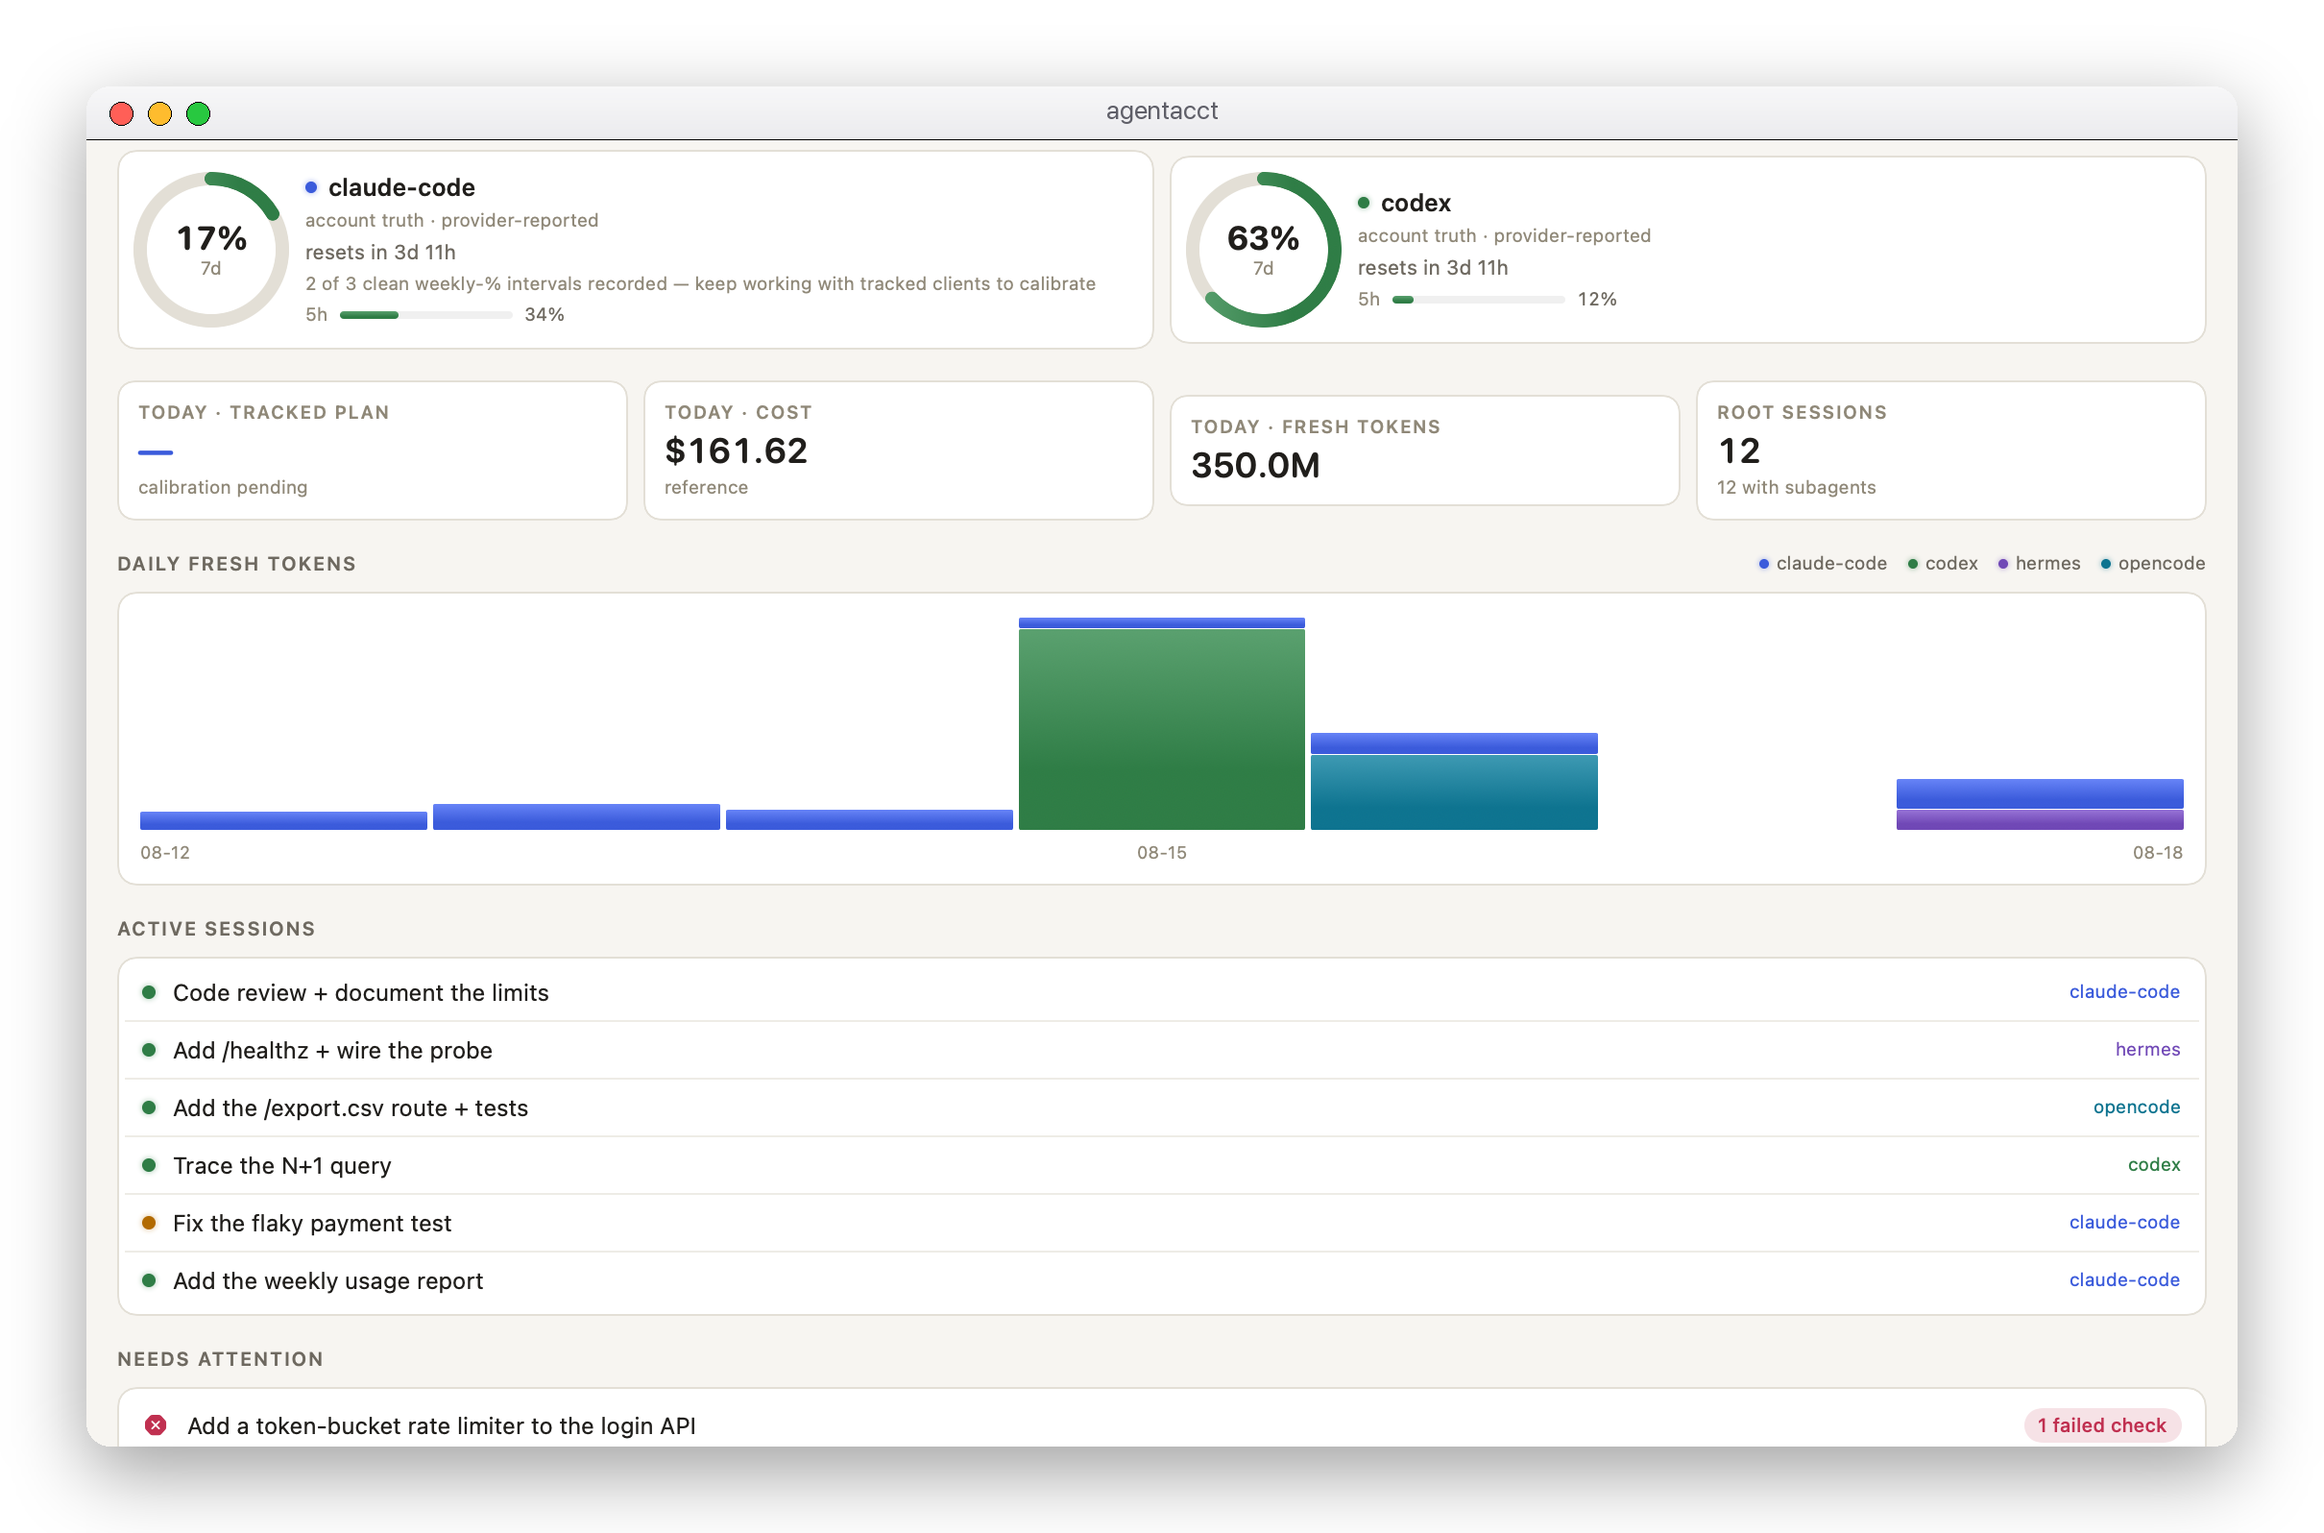
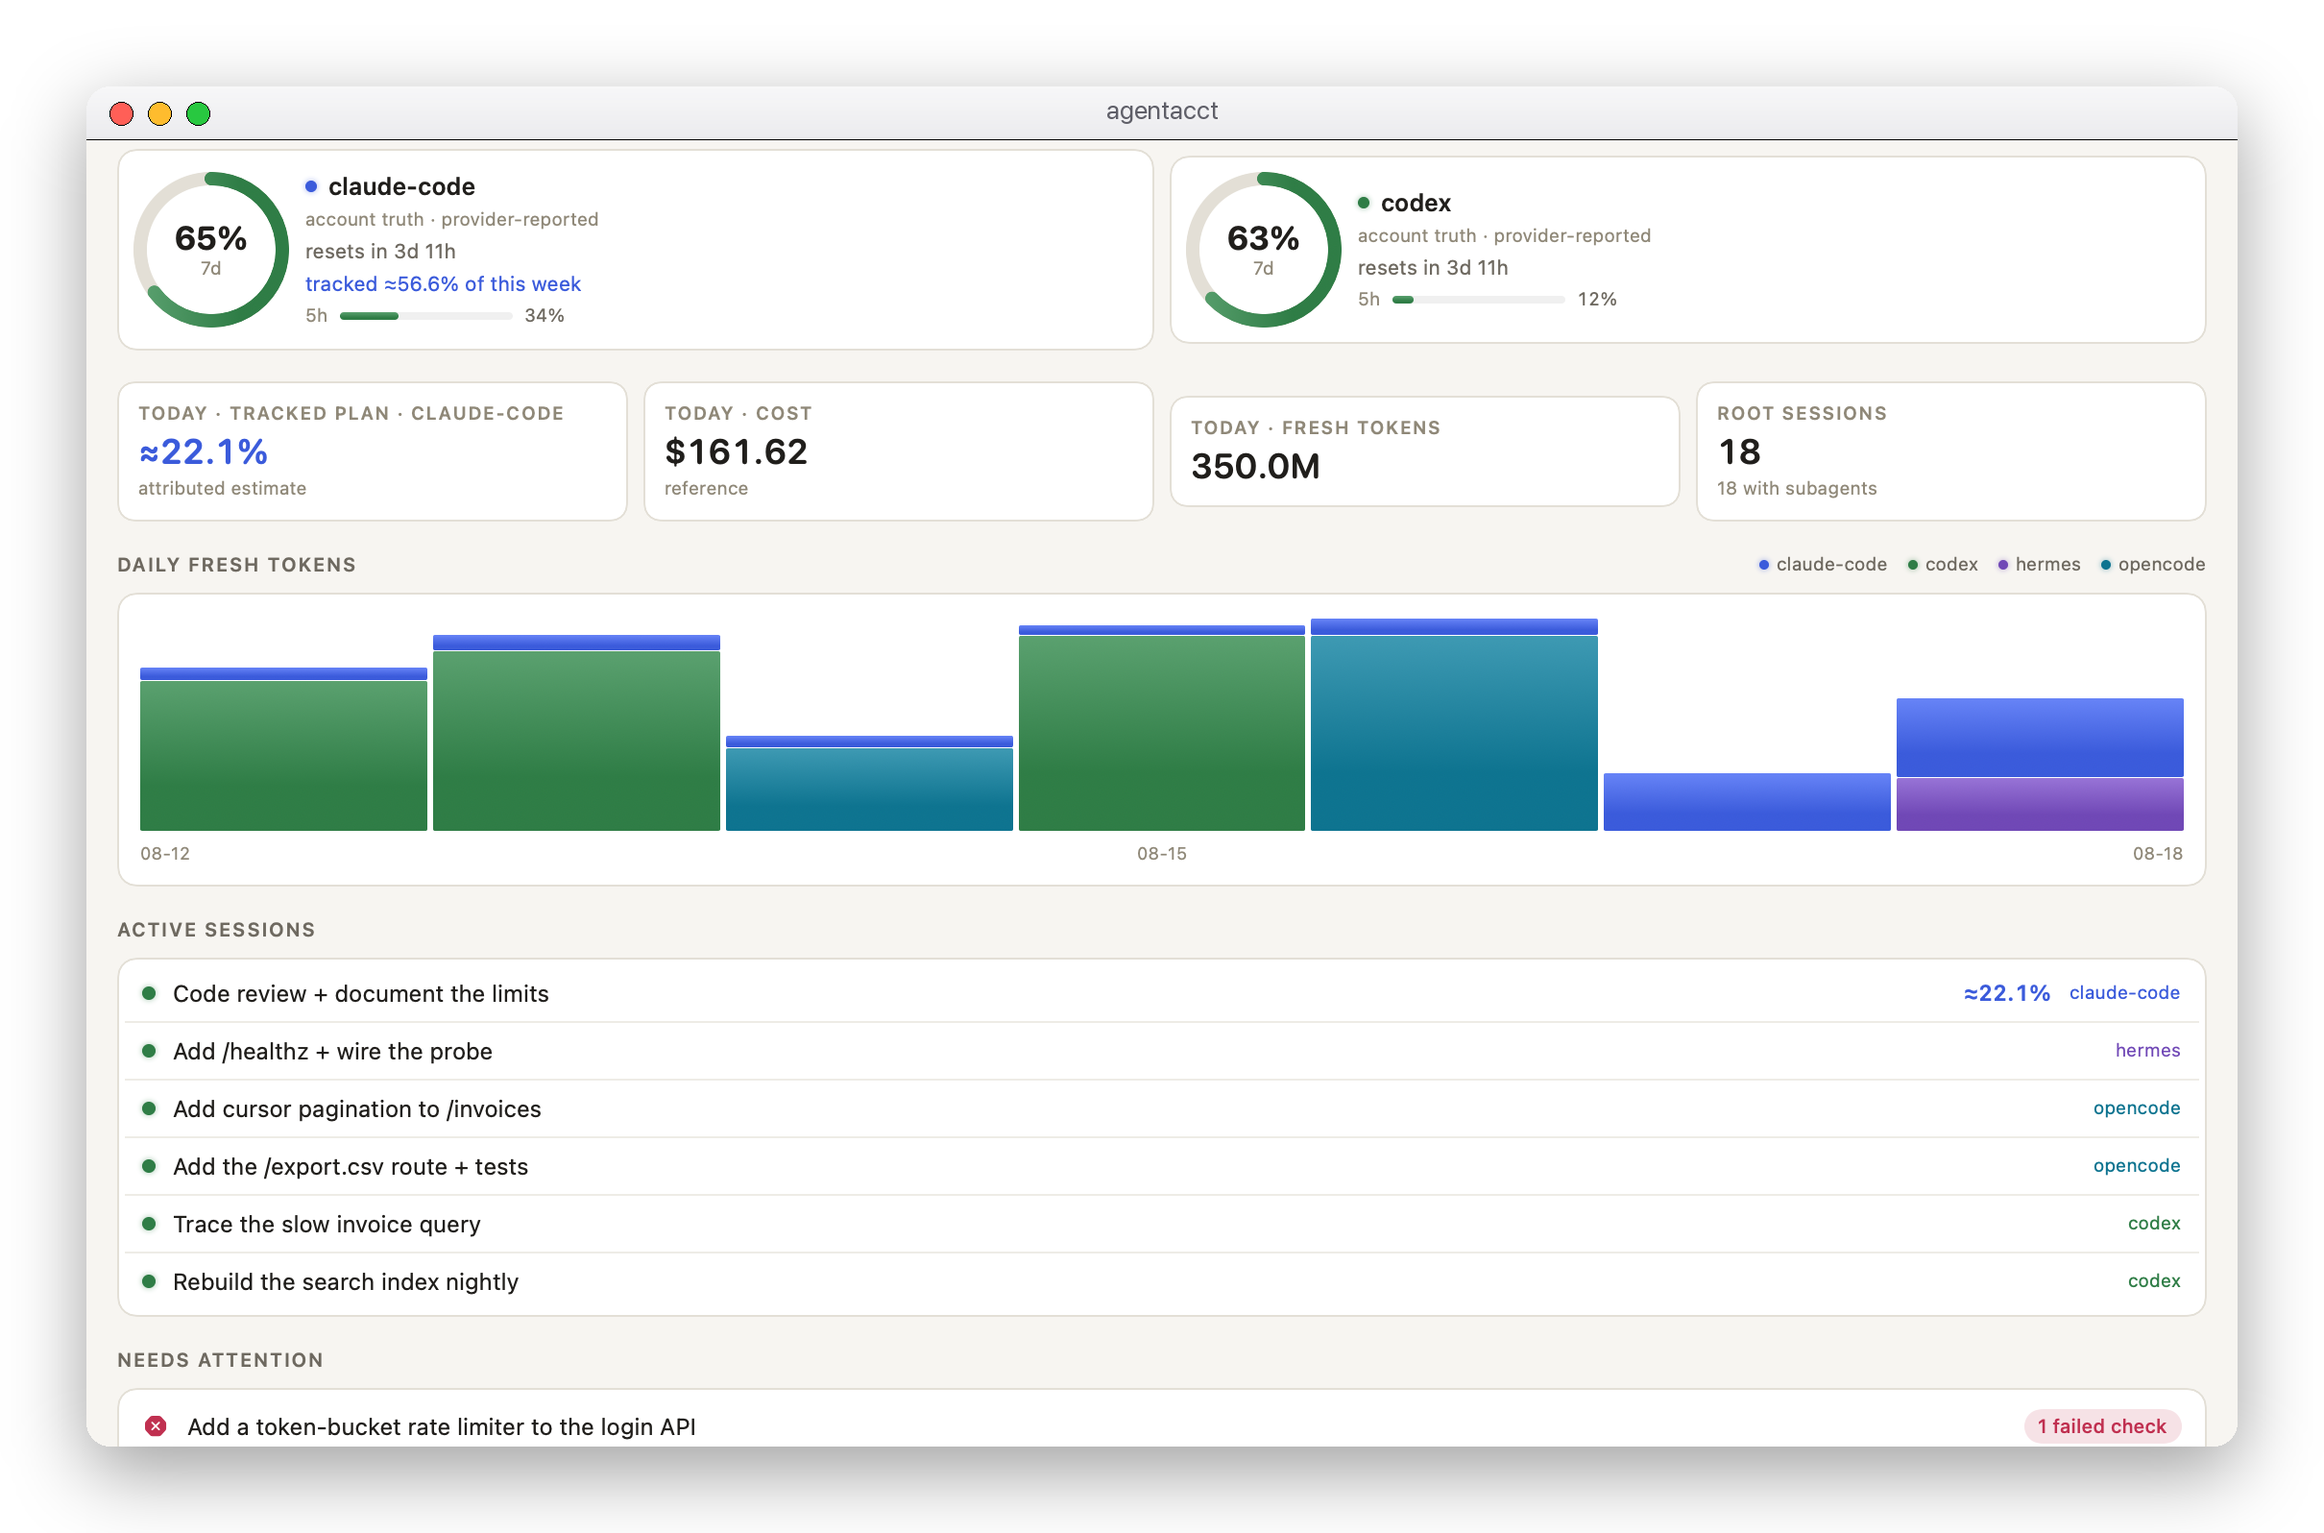
docs: refresh the README app screenshots with richer, calibrated demo data
Regenerate the three macOS-app screenshots so the Dashboard and Usage panes
read as distinct, fully populated views instead of two near-identical shots
dominated by the same sparse daily-token chart.

- Populate cache-read tokens, add a fifth model, and spread the synthetic
  sessions across the week so the daily chart is balanced and the by-agent /
  by-model / cache-read breakdowns are full.
- Seed a self-consistent claude-code weekly-limit history so the demo plan
  meter calibrates: the Dashboard's "today - tracked plan" shows an attributed
  estimate instead of "calibration pending", and the attributed weekly total
  stays under 100%.
- Pin the Usage snapshot to the dollars view (snapshot mode only, so the live
  pane's plan-first default is unchanged); the calibrated state would otherwise
  default the docs shot to the single-client plan view.

diff --git a/apps/agentacct/Sources/agentacct/UsagePane.swift b/apps/agentacct/Sources/agentacct/UsagePane.swift
@@ -24,7 +24,13 @@ struct UsagePane: View {
     }
 
     private var mode: UsageMode {
-        chosenMode ?? (calibratedClients.isEmpty ? .dollars : .plan)
+        // The live pane opens on the plan view when a client is calibrated (the
+        // subscription user's real question). The README snapshot instead shows
+        // the dollars view — the by-agent / by-model / cache-read breakdown the
+        // docs describe; the plan view is single-client by design (only a
+        // clean-meter client calibrates), so it can't fill a marketing shot.
+        if SnapshotMode.enabled { return chosenMode ?? .dollars }
+        return chosenMode ?? (calibratedClients.isEmpty ? .dollars : .plan)
     }
 
     var body: some View {

diff --git a/scripts/gen_app_screenshots.py b/scripts/gen_app_screenshots.py
@@ -42,23 +42,32 @@ CURATE = {
 
 sys.path.insert(0, str(REPO_ROOT / "src"))
 from agentacct.client_usage import ClientUsageEvent  # noqa: E402
-from agentacct.plan_cost import BASELINE_MODEL_WEIGHTS  # noqa: E402
+from agentacct.plan_cost import BASELINE_MODEL_WEIGHTS, baseline_weight_fresh  # noqa: E402
 from agentacct.service import SentinelService  # noqa: E402
 
 NOW = time.time()
 DAY = 86400
 OPUS = "claude-opus-4-8"
-OPUS_W = BASELINE_MODEL_WEIGHTS[OPUS]
+# Re-anchored FRESH-component weekly-plan weight (% of plan per 1M fresh tokens).
+# The plan-cost calibrator predicts each interval's movement against THIS weight,
+# so the seeded 7-day readings must use it too (a raw-weight series fits a scale
+# ~8x below the trusted band and never calibrates).
+FRESH_W = baseline_weight_fresh(OPUS)
 
 
 # --- event helpers (mirror the shapes the receipt/glance projections read) ----
 
-def _usage(svc, *, client, model, session, title, tokens, at, cost, project):
+def _usage(svc, *, client, model, session, title, tokens, at, cost, project, cache_read=None):
+    # Agents with prompt caching read far more from cache than they spend fresh;
+    # default the cache-read tokens to a realistic multiple of the fresh tokens so
+    # the Usage pane's CACHE READ stat reflects real usage instead of a bare 0.
+    if cache_read is None:
+        cache_read = int(tokens * 4)
     ev = ClientUsageEvent(
         client=client, client_session_id=session,
         source_path=Path(f"/demo/{client}/{session}.jsonl"), title=title, cwd=f"/demo/{project}",
         model=model, input_tokens=tokens, output_tokens=0, cached_input_tokens=0,
-        cache_creation_input_tokens=0, cache_read_input_tokens=0,
+        cache_creation_input_tokens=0, cache_read_input_tokens=cache_read,
         cache_creation_tokens_reported=True, cache_read_tokens_reported=True,
         reasoning_output_tokens=0, provider_name=client, started_at=int(at), updated_at=int(at),
         turn_count=1, usage_row_lane=f"model:{model}", source_namespace_fingerprint=f"sha256:{client}",
@@ -139,26 +148,26 @@ def build_store():
     # FRESH TOKENS chart has bars every day, not just today. Sorted oldest-first
     # below so the weekly-plan % series climbs monotonically and each reading's
     # delta matches the tokens since the last — a clean calibration.
+    # claude-code fresh-token volumes are kept modest on purpose: the calibrated
+    # weekly-plan weight (FRESH_W) times the TOTAL cc fresh tokens this week is the
+    # attributed "% of this week", and that must stay well under 100% to read as a
+    # healthy meter. Backdrop (~250M) + tunes (~155M) + flagship (210M) => ~65%.
     cc_sessions = [
-        ("cc-sqlite",  "Migrate the event log to SQLite",   300_000_000, 228.0, "handed_off", "agentacct",   6),
-        ("cc-auth",    "Refactor the auth session store",   120_000_000,  92.0, "checkpoint", "acme-web",    6),
-        ("cc-metrics", "Emit OTLP metrics from the API",    130_000_000,  99.0, "completed",  "billing-svc", 5),
-        ("cc-search",  "Add full-text search to the docs",  180_000_000, 137.0, "completed",  "acme-web",    4),
-        ("cc-webhook", "Wire the Stripe webhook handler",   140_000_000, 106.0, "checkpoint", "billing-svc", 3),
-        ("cc-cache",   "Cache the dashboard queries",        75_000_000,  57.0, "completed",  "acme-web",    2),
-        ("cc-report",  "Add the weekly usage report",        60_000_000,  46.0, "completed",  "agentacct",   1),
-        ("cc-pay",     "Fix the flaky payment test",         90_000_000,  70.0, "blocked",    "billing-svc", 1),
+        ("cc-sqlite",  "Migrate the event log to SQLite",    50_000_000, 38.0, "handed_off", "agentacct",   6),
+        ("cc-auth",    "Refactor the auth session store",    28_000_000, 21.0, "checkpoint", "acme-web",    6),
+        ("cc-metrics", "Emit OTLP metrics from the API",     32_000_000, 24.0, "completed",  "billing-svc", 5),
+        ("cc-search",  "Add full-text search to the docs",   40_000_000, 30.0, "completed",  "acme-web",    4),
+        ("cc-webhook", "Wire the Stripe webhook handler",    30_000_000, 23.0, "checkpoint", "billing-svc", 3),
+        ("cc-cache",   "Cache the dashboard queries",        26_000_000, 20.0, "completed",  "acme-web",    2),
+        ("cc-report",  "Add the weekly usage report",        22_000_000, 17.0, "completed",  "agentacct",   1),
+        ("cc-pay",     "Fix the flaky payment test",         22_000_000, 17.0, "blocked",    "billing-svc", 1),
     ]
     cc_sessions.sort(key=lambda s: -s[6])  # oldest (largest days_ago) first
-    cum_m = 0.0
     at_by: dict[str, float] = {}
-    _limit7d(svc, captured=NOW - 7 * DAY, pct=0.0, index=0)
     for i, (sid, title, tokens, cost, status, project, days_ago) in enumerate(cc_sessions):
         at = NOW - days_ago * DAY - 5 * 3600 + (i % 3) * 2400
         at_by[sid] = at
         _usage(svc, client="claude-code", model=OPUS, session=sid, title=title, tokens=tokens, at=at, cost=cost, project=project)
-        cum_m += tokens / 1_000_000.0
-        _limit7d(svc, captured=at + 120, pct=round(cum_m * OPUS_W, 2), index=i + 1)
         _section(svc, session=sid, title="Plan & write the tests", section_id=f"{sid}-plan",
                  status="completed", at=at - 300, project=project, kind="planning",
                  summary="Scoped the change and the tests to add.")
@@ -170,18 +179,52 @@ def build_store():
     _check(svc, session="cc-pay", section_id="cc-pay-impl", result="failed", at=at_by["cc-pay"] + 120,
            summary="1 failed, 7 passed", command="pytest tests/test_payment.py -q", exit_code=1)
 
-    # The current 5h + 7d reading (includes today's flagship, +210M below), so the
+    # ---- Weekly-plan calibration chain (claude-code) -------------------------
+    # The plan-cost estimator only calibrates from consecutive 7-day-limit
+    # readings <=12h apart with tracked tokens between them, and only trusts a fit
+    # whose scale lands in [0.5, 2.5]. So seed a short, self-consistent chain over
+    # the last ~14h: a few small claude-code runs, each followed by a reading whose
+    # delta is exactly the re-anchored fresh weight times that run's tokens (=>
+    # scale 1.0, cache-read discount 0). The flagship (+210M, below) is the last
+    # link, so the meter reads calibrated and TODAY - TRACKED PLAN shows a real
+    # number instead of "calibration pending". These runs are usage-only (no
+    # sections), so they add plan history without cluttering the Work list.
+    HOUR = 3600.0
+    tune = [
+        ("cc-tune-fmt",   "Format + type-check the API package",  55, 12.0, 11.0),
+        ("cc-tune-deps",  "Bump the pinned dependencies",         48,  9.0,  8.0),
+        ("cc-tune-flaky", "Quarantine a flaky integration test",  52,  6.0,  5.0),
+    ]
+    # Start the chain at the plan % the backdrop sessions (all older than this
+    # window) already consumed, so the final reading = FRESH_W x TOTAL cc fresh
+    # tokens = the attributed "% of this week" the ring shows (no >100% overflow).
+    backdrop_m = sum(s[2] for s in cc_sessions) / 1_000_000.0
+    pct = FRESH_W * backdrop_m
+    _limit7d(svc, captured=NOW - 14 * HOUR, pct=round(pct, 2), index=200)
+    for j, (sid, title, mtok, use_h, read_h) in enumerate(tune):
+        _usage(svc, client="claude-code", model=OPUS, session=sid, title=title,
+               tokens=mtok * 1_000_000, at=NOW - use_h * HOUR, cost=round(mtok * 0.76, 2), project="agentacct")
+        pct += FRESH_W * mtok
+        _limit7d(svc, captured=NOW - read_h * HOUR, pct=round(pct, 2), index=201 + j)
+    pct += FRESH_W * 210  # the flagship's 210M fresh tokens close the chain
+
+    # The current 5h + 7d reading (the flagship interval's endpoint), so the
     # Limits pane shows both windows and the weekly meter reads calibrated.
     _rl(svc, client="claude-code", captured=NOW - 120, index=99, windows=[
         {"kind": "5h", "window_minutes": 300, "used_percent": 34.0, "resets_at": int(NOW + 9000)},
-        {"kind": "7d", "window_minutes": 10080, "used_percent": round((cum_m + 210) * OPUS_W, 1),
+        {"kind": "7d", "window_minutes": 10080, "used_percent": round(pct, 1),
          "resets_at": int(NOW + 300000)},
     ])
 
-    # ---- Codex (2 days ago; big run so an earlier day has a tall bar too) ----
+    # ---- Codex — three runs spread across the week, each a comparable bar so no
+    # single session dwarfs the daily chart (the old single 1.4B run did) ----
     cx_at = NOW - 2 * DAY - 3 * 3600
     _usage(svc, client="codex", model="gpt-5.6-sol", session="cx-perf", title="Investigate the perf regression",
-           tokens=1_400_000_000, at=cx_at, cost=6.20, project="acme-web")
+           tokens=520_000_000, at=cx_at, cost=2.30, project="acme-web")
+    _usage(svc, client="codex", model="gpt-5.6-sol", session="cx-index", title="Rebuild the search index",
+           tokens=480_000_000, at=NOW - 4 * DAY - 3 * 3600, cost=2.13, project="acme-web")
+    _usage(svc, client="codex", model="gpt-5.6-sol", session="cx-trace", title="Trace the slow query path",
+           tokens=400_000_000, at=NOW - 5 * DAY - 3 * 3600, cost=1.77, project="billing-svc")
     _rl(svc, client="codex", captured=NOW - 300, index=0, windows=[
         {"kind": "5h", "window_minutes": 300, "used_percent": 12.0, "resets_at": int(NOW + 9000)},
         {"kind": "7d", "window_minutes": 10080, "used_percent": 63.0, "resets_at": int(NOW + 300000)},
@@ -189,6 +232,12 @@ def build_store():
     _section(svc, session="cx-perf", title="Trace the N+1 query", section_id="cx-perf-1",
              status="completed", at=cx_at, client="codex", project="acme-web", kind="debugging",
              summary="Traced the N+1 in the order loader and cached it.")
+    _section(svc, session="cx-index", title="Rebuild the search index nightly", section_id="cx-index-1",
+             status="completed", at=NOW - 4 * DAY - 3 * 3600, client="codex", project="acme-web", kind="implementation",
+             summary="Moved the index rebuild to an incremental nightly job.")
+    _section(svc, session="cx-trace", title="Trace the slow invoice query", section_id="cx-trace-1",
+             status="completed", at=NOW - 5 * DAY - 3 * 3600, client="codex", project="billing-svc", kind="debugging",
+             summary="Found the missing index on invoices(account_id, created_at).")
     _tool_activity(svc, session="cx-perf", at=cx_at + 100, client="codex", basis="transcript_scan_tool_activity",
                    categories={"read": 14, "edit": 3, "execute": 6, "search": 5},
                    names=[("read_file", 14), ("apply_patch", 3), ("exec_command", 6), ("grep", 5)],
@@ -210,6 +259,13 @@ def build_store():
                    commands=["npm test", "npm run build"])
     _check(svc, session="oc-export", section_id="oc-export-1", result="passed", at=oc_at + 150,
            summary="6 passed", command="npm test", exit_code=0, client="opencode")
+    # A second OpenCode run mid-week (a 5th model, and a bar on an otherwise thin day).
+    _usage(svc, client="opencode", model="gpt-5.6-nova", session="oc-invoices", title="Paginate the invoices API",
+           tokens=220_000_000, at=NOW - 3 * DAY - 4 * 3600, cost=0.97, project="billing-svc")
+    _section(svc, session="oc-invoices", title="Add cursor pagination to /invoices", section_id="oc-invoices-1",
+             status="completed", at=NOW - 3 * DAY - 4 * 3600, client="opencode", project="billing-svc",
+             summary="Cursor pagination + a covering index; p95 down 40%.",
+             files=["src/billing/invoices.py"])
 
     # ---- Hermes (recent) ----
     _usage(svc, client="hermes", model="claude-sonnet-5", session="hm-infra", title="Add a health-check probe",
